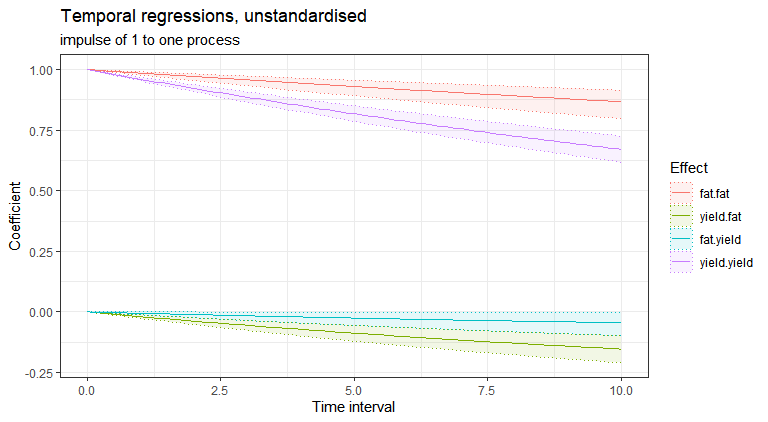
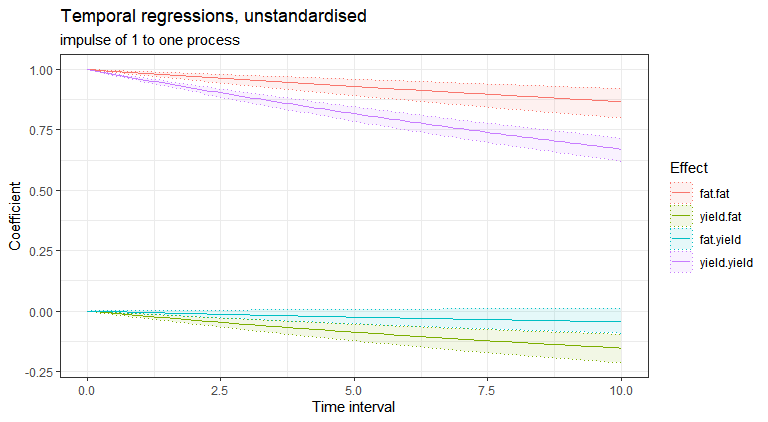
README and NEW-IN-4: reread for wording and accuracy
"Multiple" for processes, indicators, cores and levels where "several" and
"a few" implied limits that do not exist. The install section no longer
sends CRAN users to ctJuliaInstall(), which 3.11 lacks, and drops
install_github options that are obsolete (--no-multiarch) or wrong
(dependencies without LinkingTo). NEW-IN-4 no longer says all version 3
code works beside its table of removed functions, or that NEWS lists every
change; drops the missing TI predictor line (imputed since 3.x) and the
internal option and quadrature detail added on 2026-11-17. The release
checklist notes the install sentence to remove at 4.0's release.

diff --git a/README.md b/README.md
@@ -16,9 +16,9 @@ status](https://www.r-pkg.org/badges/version/ctsem)](https://cran.r-project.org/
 <!-- badges: end -->
 
 ctsem fits continuous and discrete time dynamic models to longitudinal
-data in R. It works with panel data with a few waves, intensive
-longitudinal data and single long time series, and observation times can
-be irregular and different for each person.
+data in R: panel data, intensive longitudinal data or a single time
+series. Observations can be at any times, and the times can differ
+between subjects.
 
 [Website](https://cdriveraus.github.io/ctsem/) · [New in version
 4](NEW-IN-4.md) · [Tutorial
@@ -26,42 +26,40 @@ paper](https://osf.io/preprints/psyarxiv/4q9ex_v3)
 
 ## Features
 
-- Several interacting processes, oscillations and other higher order
-  dynamics, time-varying inputs and interventions, and nonlinear
-  dynamics.
-- Several indicators per process, which can be continuous, binary,
-  ordinal, counts or censored.
-- Individual differences in any parameter, at one or more levels (for
-  example people within couples), and covariate effects on any
-  parameter.
-- Maximum likelihood, maximum a posteriori, or Bayesian sampling.
-- Tools for checking a model and finding what it is missing.
-- Latent growth curves, latent change scores and cross-lagged panel
-  models are special cases.
+- Multiple interacting processes, including higher order (such as
+  oscillating) and nonlinear dynamics.
+- Effects of time-varying inputs, such as interventions.
+- Multiple indicators, which can be continuous, binary, ordinal, counts
+  or censored.
+- Individual differences in any parameter, including at multiple nested
+  levels (such as people within couples).
+- Covariate effects on any parameter.
+- Maximum likelihood, or Bayesian estimation by optimisation or
+  sampling.
+- Tools for testing a model’s fit and finding how to improve it.
+- Latent growth curve, latent change score and cross-lagged panel models
+  as special cases.
 
 Version 4 adds an estimation engine written in Julia, now the default.
-It is two to three times faster than the Stan backend of earlier
-versions on one core, uses several cores at once, and does not need to
-compile each new model. Random effects are integrated with a Laplace
-approximation, which estimates individual differences in the dynamics
-more accurately.
+It is two to three times faster than the Stan backend, uses multiple
+cores, and needs no compilation for new models. Random effects are
+integrated with a Laplace approximation, which estimates individual
+differences in the dynamics more accurately than earlier versions did.
 
 ## Installation
 
 ``` r
-install.packages('ctsem')   # CRAN release
-
-# or the development version
-remotes::install_github('cdriveraus/ctsem',
-  INSTALL_opts = "--no-multiarch", dependencies = c("Depends", "Imports"))
+install.packages('ctsem')                     # CRAN release
+remotes::install_github('cdriveraus/ctsem')   # development version
 
 library(ctsem)
 ctJuliaInstall()   # once, to set up Julia
 ```
 
-The first fit after installing takes a few extra minutes while the
-engine is compiled. Without Julia, `ctFit(..., backend = 'stan')` fits
-models as ctsem 3 did.
+Version 4 is not on CRAN yet, so install it from GitHub for now. The
+first fit after installing takes a few minutes longer while the engine
+compiles. Without Julia, `ctFit(..., backend = 'stan')` fits models as
+ctsem 3 did.
 
 <details>
 
@@ -71,9 +69,9 @@ Compiler problems on Windows
 </summary>
 
 Installing from GitHub, and fitting nonlinear models with the Stan
-backend, need a C++ toolchain: a recent R with the matching Rtools. If
-compiling fails, check that `rstan` itself works, and put this line,
-alone, in `~/.R/Makevars.win`:
+backend, need the Rtools version that matches your R. If compiling
+fails, check that `rstan` itself works, and try adding this line to
+`~/.R/Makevars.win`:
 
     CXX17FLAGS += -mtune=native -Wno-ignored-attributes -Wno-deprecated-declarations
 
@@ -84,8 +82,9 @@ problems.
 
 ## Example
 
-Daily milk yield and fat percentage of 53 cows over a lactation, from
-the [doBy](https://cran.r-project.org/package=doBy) package:
+Milk yield and fat percentage of 53 cows, recorded on most days of a
+lactation, from the [doBy](https://cran.r-project.org/package=doBy)
+package:
 
 ``` r
 library(ctsem)
@@ -108,34 +107,34 @@ model <- ctModel(
 fit <- ctFit(milk, model)
 ```
 
-Everything not given in `ctModel()`, including the effects between the
-two processes, takes its default and is estimated.
+Anything not given to `ctModel()` takes a default. The effects between
+the two processes, for example, are estimated.
 
 ``` r
 summary(fit)$popmeans
 #>                   mean    sd   2.5%    50%  97.5%   mode
-#> T0m_yield       -0.940 0.144 -1.223 -0.944 -0.647 -0.943
-#> T0m_fat          0.133 0.191 -0.227  0.130  0.529  0.150
-#> drift_yield     -0.041 0.004 -0.050 -0.040 -0.033 -0.041
+#> T0m_yield       -0.949 0.142 -1.209 -0.950 -0.663 -0.943
+#> T0m_fat          0.158 0.185 -0.212  0.155  0.506  0.151
+#> drift_yield     -0.041 0.004 -0.049 -0.041 -0.033 -0.041
 #> drift_yield_fat -0.020 0.004 -0.027 -0.020 -0.013 -0.020
-#> drift_fat_yield -0.006 0.004 -0.013 -0.006  0.001 -0.006
-#> drift_fat       -0.015 0.004 -0.025 -0.015 -0.008 -0.015
-#> diff_yield       0.136 0.004  0.128  0.136  0.143  0.136
-#> diff_fat_yield  -0.595 0.061 -0.715 -0.596 -0.480 -0.592
-#> diff_fat         0.115 0.005  0.106  0.115  0.125  0.116
-#> mvaryield        0.329 0.003  0.323  0.329  0.334  0.328
-#> mvarfat          0.582 0.005  0.574  0.582  0.591  0.582
-#> mm_yield        -0.060 0.117 -0.299 -0.059  0.161 -0.054
-#> mm_fat           0.149 0.110 -0.065  0.146  0.360  0.142
+#> drift_fat_yield -0.006 0.004 -0.013 -0.006  0.002 -0.006
+#> drift_fat       -0.015 0.004 -0.024 -0.015 -0.009 -0.015
+#> diff_yield       0.136 0.004  0.129  0.136  0.143  0.136
+#> diff_fat_yield  -0.591 0.062 -0.708 -0.592 -0.472 -0.592
+#> diff_fat         0.116 0.005  0.106  0.116  0.125  0.116
+#> mvaryield        0.329 0.003  0.323  0.329  0.335  0.328
+#> mvarfat          0.582 0.005  0.573  0.582  0.591  0.582
+#> mm_yield        -0.053 0.123 -0.299 -0.052  0.187 -0.054
+#> mm_fat           0.141 0.108 -0.063  0.140  0.352  0.142
 ```
 
 `drift_yield` and `drift_fat` are the auto effects: negative values mean
-each process returns towards its equilibrium. `drift_yield_fat` is the
-effect of fat on yield and `drift_fat_yield` the reverse. Higher fat
-predicts a later fall in yield, while the reverse effect is close to
-zero. The `diff` parameters describe the random fluctuations of the
-processes, `mvar` the measurement error, `mm` the measurement
-intercepts, and `T0m` the starting values.
+each process tends back towards its equilibrium. `drift_yield_fat` is
+the effect of fat on yield, and `drift_fat_yield` the reverse. Higher
+fat is followed by lower yield, while yield has little or no effect on
+fat. The `diff` parameters describe the process noise, `mvar` the
+measurement error, `mm` the measurement intercepts and `T0m` the initial
+states.
 
 ``` r
 ctPredict(fit, subjects = unique(milk$cow)[1:2], plot = TRUE)
@@ -143,7 +142,7 @@ ctPredict(fit, subjects = unique(milk$cow)[1:2], plot = TRUE)
 
 <img src="man/figures/README-firstplot-1.png" alt="Observed yield and fat percentage for two cows over one lactation, with the model's expected trajectory and uncertainty band tracking each series." width="100%" />
 
-The observations for two cows, with the model’s predictions and their
+Observations for two cows, with the model’s predictions and their
 uncertainty.
 
 ``` r
@@ -152,13 +151,13 @@ ctDiscretePars(fit, plot = TRUE)
 
 <img src="man/figures/README-firstdiscrete-1.png" alt="Auto and cross regression coefficients plotted against the time interval. The effect of fat on yield grows steadily more negative; the reverse effect stays near zero." width="100%" />
 
-The auto and cross effects as regression coefficients, for any time
-interval between observations.
+The auto and cross effects as regression coefficients, as they change
+with the time interval.
 
 ## Covariate effects
 
-Covariates can act on any parameter. Here diet affects the growth of
-chicks (`ChickWeight`, in base R):
+This example estimates the effect of diet on the growth of chicks
+(`ChickWeight`, in base R):
 
 ``` r
 chickdata <- ChickWeight
@@ -184,20 +183,20 @@ m <- ctModel(
 f <- ctFit(chickdata, m, priors = TRUE)
 ```
 
-In a model, a string is a free parameter and a number is fixed. A
-parameter’s options follow its name, such as `tipreds` for covariate
-effects or `indvarying` for random effects; `ctPar()` writes them for
-you.
+In `ctModel()`, a string is a free parameter and a number a fixed value.
+Options follow the parameter’s name, such as `tipreds` for covariate
+effects or `indvarying` for random effects; `ctPar()` writes these
+strings.
 
 ``` r
 summary(f)$tipreds
 #>                  mean    sd   2.5%   50% 97.5%  mode     z
-#> tip_Diet_2_cint 0.020 0.014 -0.007 0.020 0.047 0.021 1.488
-#> tip_Diet_3_cint 0.050 0.013  0.024 0.050 0.075 0.051 3.747
-#> tip_Diet_4_cint 0.028 0.013  0.002 0.028 0.053 0.028 2.138
+#> tip_Diet_2_cint 0.021 0.013 -0.005 0.021 0.046 0.021 1.570
+#> tip_Diet_3_cint 0.050 0.013  0.025 0.050 0.074 0.051 3.983
+#> tip_Diet_4_cint 0.028 0.013  0.001 0.028 0.052 0.028 2.135
 ```
 
-Diets 3 and 4 increase the intercept, and so the growth, compared with
+Diets 3 and 4 raise the intercept, and so the growth rate, compared with
 diet 1.
 
 ``` r

diff --git a/NEW-IN-4.md b/NEW-IN-4.md
@@ -1,8 +1,9 @@
 # New in ctsem 4
 
-ctsem 4 adds an estimation engine written in Julia, now the default, and most
-new features build on it. Models and code written for ctsem 3 still work. This
-page summarises what changed; [NEWS.md](NEWS.md) lists every change.
+Version 4 adds an estimation engine written in Julia, now the default, and most
+new features build on it. Most code written for version 3 still runs; the
+tables at the end list the changed defaults and the renamed and removed
+functions. [NEWS.md](NEWS.md) is the change log.
 
 ## Julia engine
 
@@ -12,40 +13,36 @@ fit <- ctFit(data, model)
 ```
 
 `ctJuliaInstall()` sets up Julia and the engine, asking before each download.
-The first fit after installing or updating ctsem takes a few extra minutes
-while the engine is compiled.
+The first fit after installing or updating ctsem takes a few minutes longer
+while the engine compiles.
 
-- Fits are two to three times faster than with Stan on one core, and use
-  several cores at once (`cores`).
-- Models are not compiled one by one, so a nonlinear model starts fitting
-  straight away. With Stan, each new nonlinear model took several minutes to
-  compile.
-- `backend = 'stan'` still fits as ctsem 3 did.
+- Fits are two to three times faster than with Stan, and use multiple cores
+  (`cores`).
+- New models need no compilation, so a nonlinear model starts fitting at once.
+  With Stan, each new nonlinear model took minutes to compile.
+- `backend = 'stan'` fits as ctsem 3 did.
 
 ## Random effects
 
 - Random effects are integrated with a Laplace approximation. Version 3 carried
   them as extra states of the Kalman filter, which underestimates individual
-  differences in the dynamics. Random intercepts in linear models are still
-  integrated exactly, also beside random dynamics, where Laplace then
-  approximates only the integral over the rest
-  (`optimcontrol$laplace_onestep = TRUE` approximates them all together).
-  `intoverpop = 'augmented'` gives the old method, and `ctFit()` warns when
-  that method meets nonlinear dynamics.
+  differences in the dynamics. In linear models, random intercepts are
+  integrated exactly. `intoverpop = 'augmented'` gives the old method, and
+  `ctFit()` warns when that method meets nonlinear dynamics.
 - Each fit checks the approximation and warns if it affects the estimates.
   `intoverpop = 'quadrature'` then refines the fit, and
   `ctFitUncertainty(fit, 'sample')` samples the full posterior instead.
-- Random effects can sit at several nested levels, such as people within
+- Random effects can be at multiple nested levels, such as people within
   couples: `id = c('person', 'couple')`, with each parameter's `indvarying`
   naming the levels it varies at. See the
   [multilevel vignette](https://cdriveraus.github.io/ctsem/articles/laplace-multilevel.html).
-- `poprank`, `popunique` and `popblocks` simplify the random effects
-  covariance when many parameters vary.
+- `poprank`, `popunique` and `popblocks` give the random effects covariance
+  fewer parameters when many parameters vary.
 
 ## Measurement models
 
-Observed variables can be continuous, binary, ordinal, counts or censored, set
-for each variable with `manifesttype`, and types can be mixed in one model.
+Observed variables can be continuous, binary, ordinal, counts or censored, in
+any mix, set for each variable with `manifesttype`.
 
 | `manifesttype` | type | also needed |
 |---|---|---|
@@ -55,8 +52,8 @@ for each variable with `manifesttype`, and types can be mixed in one model.
 | 3 | count | |
 | 4 | censored | `censormin`, `censormax` |
 
-Measurement and dynamics that depend on the latent state are also handled more
-accurately. See the vignettes on
+Nonlinear measurement and dynamics are filtered more accurately than in version
+3. See the vignettes on
 [measurement models](https://cdriveraus.github.io/ctsem/articles/measurement-models.html),
 [item response models](https://cdriveraus.github.io/ctsem/articles/irt-items.html)
 and [ordinal or continuous data](https://cdriveraus.github.io/ctsem/articles/ordinal-or-continuous.html).
@@ -65,19 +62,19 @@ and [ordinal or continuous data](https://cdriveraus.github.io/ctsem/articles/ord
 
 - Smooth effects of time independent covariates:
   `TIpredNames = ~ s(age) + sex`.
-- Missing values of time independent covariates are handled automatically.
-- Subject weights, to estimate population values from an unrepresentative
-  sample: `ctFit(..., weights = w)`. See the
+- Subject weights, for population estimates from a sample that does not
+  represent the population: `ctFit(..., weights = w)`. See the
   [sampling weights vignette](https://cdriveraus.github.io/ctsem/articles/sampling-weights.html).
 
 ## Uncertainty and sampling
 
-- Standard errors come from the Hessian, and ctsem checks whether that
-  approximation holds.
-- `ctFitUncertainty()` recomputes the uncertainty by other methods, such as
-  the bootstrap or importance sampling. It replaces `ctOptimUncertainty()`.
+- Standard errors come from the Hessian, as before, and each fit checks whether
+  that approximation holds.
+- `ctFitUncertainty()`, which replaces `ctOptimUncertainty()`, computes the
+  uncertainty by other methods, such as a sandwich estimator, the bootstrap or
+  importance sampling.
 - `ctFit(optimize = FALSE)`, or `ctFitUncertainty(fit, 'sample')` after a fit,
-  samples the posterior until the effective sample size is large enough. See
+  samples the posterior until the effective sample size reaches its target. See
   the [uncertainty vignette](https://cdriveraus.github.io/ctsem/articles/uncertainty.html).
 
 ## Checking and improving models
@@ -86,25 +83,24 @@ and [ordinal or continuous data](https://cdriveraus.github.io/ctsem/articles/ord
 |---|---|
 | `ctReport(fit)` | run the main summaries, plots and checks, and save them to a folder |
 | `ctIdentify(data, model)` | see which parameters the data can inform, before fitting |
-| `ctScoreTest(fit)` | test whether the model is missing random effects, covariate effects or nonlinearity, without refitting; `intoverpop = 'quadrature'` integrates the random effects by quadrature for the tests that extend the model ([vignette](https://cdriveraus.github.io/ctsem/articles/score-tests.html)) |
+| `ctScoreTest(fit)` | test whether the model is missing random effects, covariate effects or nonlinearity, without refitting ([vignette](https://cdriveraus.github.io/ctsem/articles/score-tests.html)) |
 | `ctFitAdequacy(fit)` | test the model's one-step-ahead predictions |
-| `ctModelImprove(fit)` | search for a better model, step by step, guided by those tests |
-| `ctLOO(fit, method = 'psis')` | cross validate without refitting |
+| `ctModelImprove(fit)` | search for a better model step by step, guided by score tests |
+| `ctLOO(fit, method = 'psis')` | cross validation without refitting |
 | `ctFitProfile(fit)` | profile likelihood |
-| `anova()`, `coef()`, `vcov()`, `logLik()` | the usual R generics |
+| `anova()`, `coef()`, `vcov()`, `logLik()` | the standard R generics |
 
 `ctModelHigherOrder()`, `ctModelSlowComponent()`, `ctModelPeriodicComponent()`
-and `ctModelUniqueProcess()` extend a model with a second order, a slow
+and `ctModelUniqueProcess()` extend a model with second order dynamics, a slow
 process, a cycle, or a process specific to one indicator.
 
-## Plots and summaries
+## Plots
 
 `ctNetwork()` and `ctNetworkPlot()` draw temporal and contemporaneous networks,
-`ctPhasePortrait()` a phase portrait, `ctStateDependencePlot()` how a nonlinear
-model's parameters change with the state, and `ctVarianceDecomposition()`
-splits variance into between person, process and measurement parts.
-`ctTracePlot()` shows the optimisation or sampling. `summary()` also gives the
-correlation matrices (`DIFFUSIONcor`, `T0cor`, `MANIFESTcor`).
+`ctPhasePortrait()` a phase portrait, and `ctStateDependencePlot()` how a
+nonlinear model's parameters change with the state. `ctVarianceDecomposition()`
+splits variance into between subject, process and measurement parts, and
+`ctTracePlot()` shows the path of the optimiser or sampler.
 
 ## Model specification
 
@@ -112,8 +108,8 @@ correlation matrices (`DIFFUSIONcor`, `T0cor`, `MANIFESTcor`).
   `'cint, indvarying=TRUE, tipreds=c(age)'`. `ctPar()` writes these, and
   `ctCov()` writes covariance matrices.
 - Covariance matrices use a new parameterisation (a matrix logarithm), so their
-  off-diagonal parameters are not correlations. The correlation matrices in
-  `summary()` give the correlations.
+  off-diagonal parameters are not correlations. `summary()` reports the
+  correlation matrices (`DIFFUSIONcor`, `T0cor`, `MANIFESTcor`).
 - `ctGenerate()` simulates data from any model, including random effects and
   non-Gaussian indicators.
 

diff --git a/dev/RELEASE-CHECKLIST.md b/dev/RELEASE-CHECKLIST.md
@@ -128,3 +128,8 @@ Written last, in one deliberate pass, from the user's side. A bug introduced and
 fixed within the same unreleased cycle gets no entry. See the house rules in
 `CLAUDE.md`; the register is one line per change, no mechanism and no
 measurements.
+
+## README
+
+While version 4 is not on CRAN, the README's installation section says to
+install it from GitHub. Remove that sentence once 4.0 is on CRAN.
